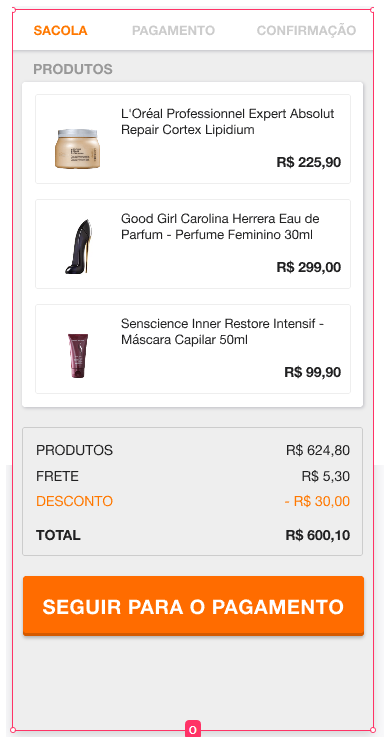
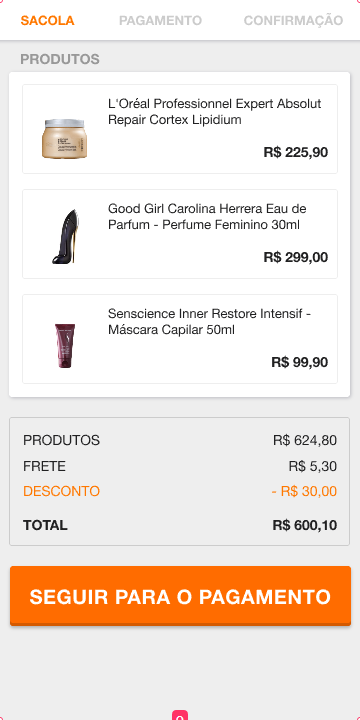
ajustes de layout #1

diff --git a/src/App.css b/src/App.css
@@ -29,7 +29,7 @@
   padding-right: 5px;
   padding-top: 12px;
   padding-bottom: 11.5px;
-  margin: 1px 0px 0px 0px;
+  margin: 0px 0px 0px 0px;
   display: flex;
   flex-direction: row;
   align-content: center;
@@ -58,7 +58,8 @@
 
 .menu-item3 {
   color: #ccc;
-  padding-right: 11px;
+  padding-top: 0px;
+  padding-right: 12px;
 }
 
 .titProduto {
@@ -72,7 +73,7 @@
   font-family: 'Helvetica Neue Medium';
   font-weight: 700;
   font-size: 14px;
-  margin: 11px 21px 0px 20px;
+  margin: 12px 21px 0px 20px;
   justify-content: flex-start
 }
 
@@ -110,8 +111,8 @@
   height: 90px;
   border-radius: 3px;
   border: 1px solid #CCC;
-  padding: 9px 12px 1px 9px;
-  margin: 1px 0px 4px 0px;
+  padding: 10px 12px 1px 10px;
+  margin: 0px 0px 4px 0px;
   display: flex;
   flex-direction: row;
 }
@@ -123,7 +124,7 @@
 
 .txtproduto9 {
   margin: 0px 0px 0px 0px;
-  padding: 1px 0px 0px 0px;
+  padding: 0px 0px 0px 0px;
   font-family: "Helvetica Neue Light";
   font-size: 13px;
   font-weight: "regular";
@@ -136,7 +137,9 @@
   width: 220px;
   color: #212122;
   font-family: "Helvetica Neue Light";
-  font-size: 13.5px;
+  font-size: 12.5px;
+  letter-spacing: 0.442px;
+  line-height: 16.39px;
   margin: 0px 0px 0px 11px;
   padding: 0px 0px 0px 0px;
 
@@ -144,13 +147,14 @@
 
 .vlrproduto {
   width: 220px;
-  background-color:'transparent';
-  margin: 7px 0px 0px 10px;
+  background-color:'#00ff00';
+  margin: 7px 0px 0px 11px;
   padding: 10px 0px 0px 0px;
   color: #212122;
   font-family: "Helvetica Neue Medium";
   font-size: 13px;
   font-weight: 700;
+  letter-spacing: 0.44px;
   text-align: right
 }
 
@@ -160,7 +164,7 @@
   width: 341px;
   border-radius: 3px;
   border: 1px solid #CCC;
-  margin: 19px 0px 0px 9px;
+  margin: 20px 0px 0px 9px;
   display: flex;
   flex-direction: column;
   padding: 8px 13px 20px 13px;
